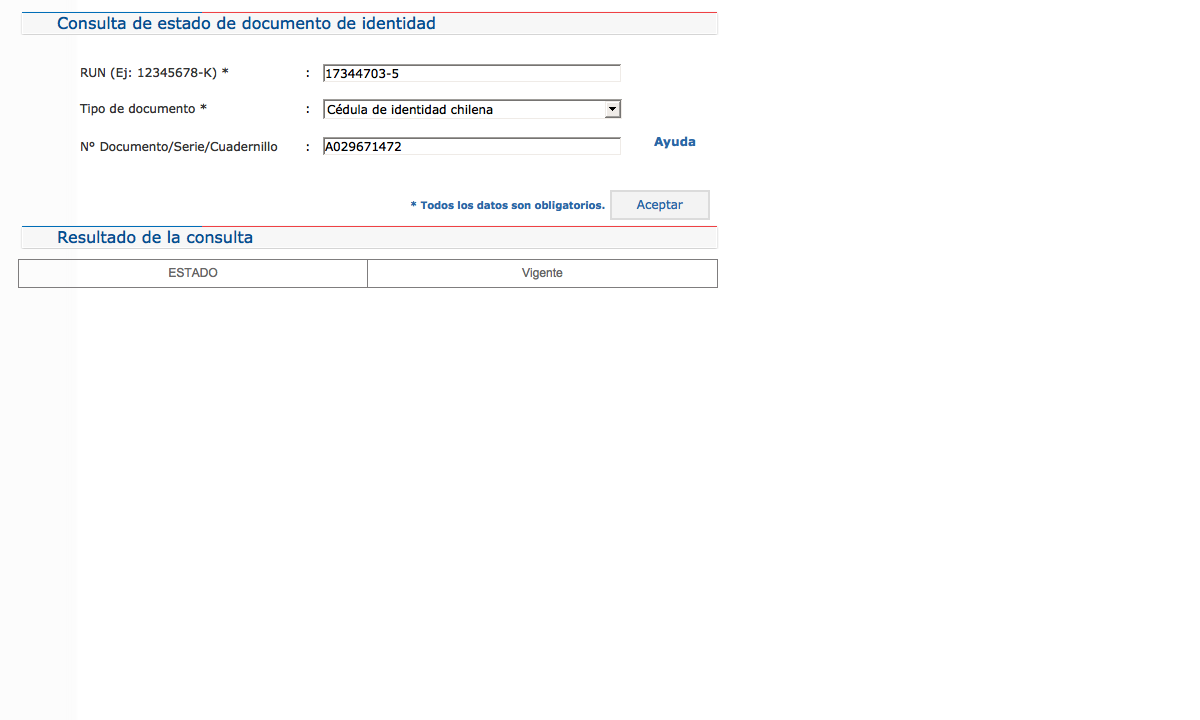
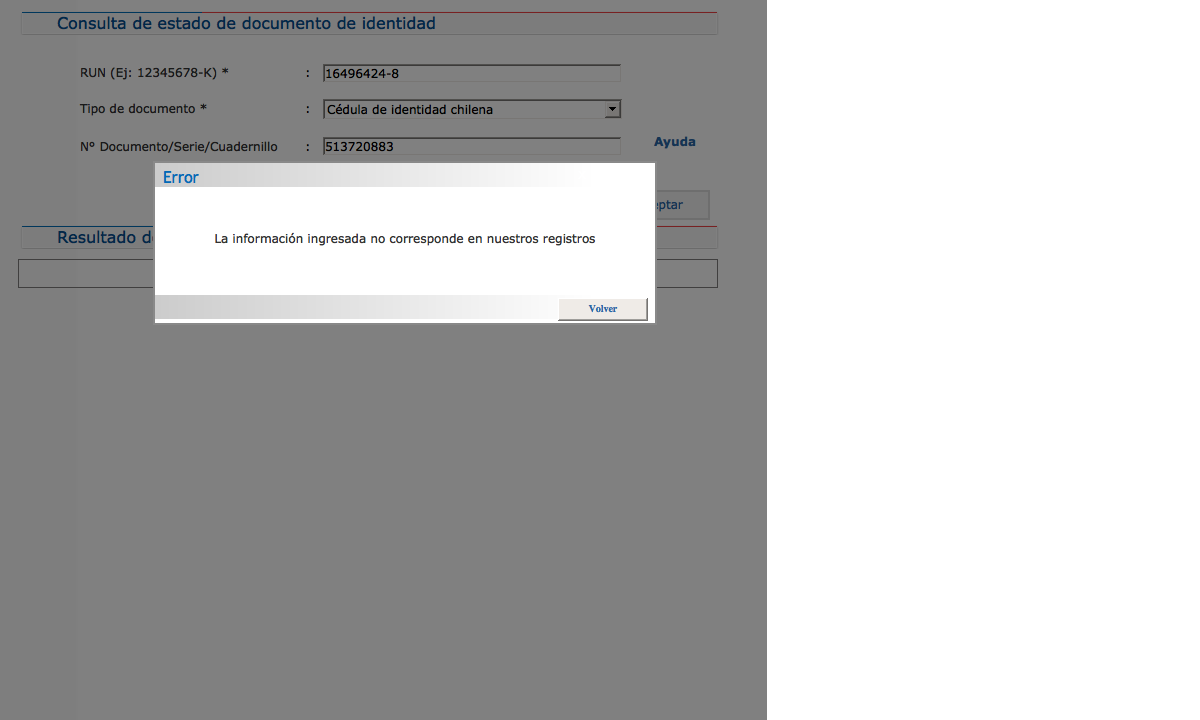
Send message validate or else

diff --git a/anotter.js b/anotter.js
@@ -25,14 +25,18 @@ casper.then(function(){
 
 casper.wait(4000,function(){
 	casper.capture("rockyoulikeanhurricane.png",{top:0,left:0,width:1200,height:720});
-	casper.echo("Lizz Taylor");
 });
 
 casper.then(function(){
 	var result = casper.evaluate(function(){
 		return $('.setWidthOfSecondColumn').text();
-	});
-	this.echo(result);
+	});	
+	 	if(result){
+	 		this.echo(result);
+	 	}else{
+	 		this.echo("Cedula No Valida");
+	 	}
+		//this.echo(result);	
 });
 
 casper.run();
